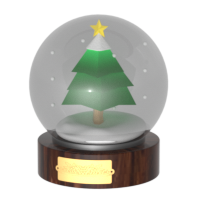
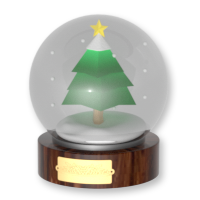
chore: 오너먼트 이미지 변경 및 enum 오타 수정

Changed region(s): [[0.21, 0.27, 0.87, 0.99], [0.78, 0.21, 0.81, 0.27], [0.21, 0.63, 0.24, 0.66]]

diff --git a/src/types/enum/ornamentType.ts b/src/types/enum/ornamentType.ts
@@ -3,7 +3,7 @@ export enum OrnamentType {
   Bell = 'bell',
   CandyCane = 'candyCane',
   Cookie = 'cookie',
-  Giftbox = 'Giftbox',
+  Giftbox = 'giftbox',
   Hat = 'hat',
   Santa = 'santa',
   SnowBall = 'snowBall',
